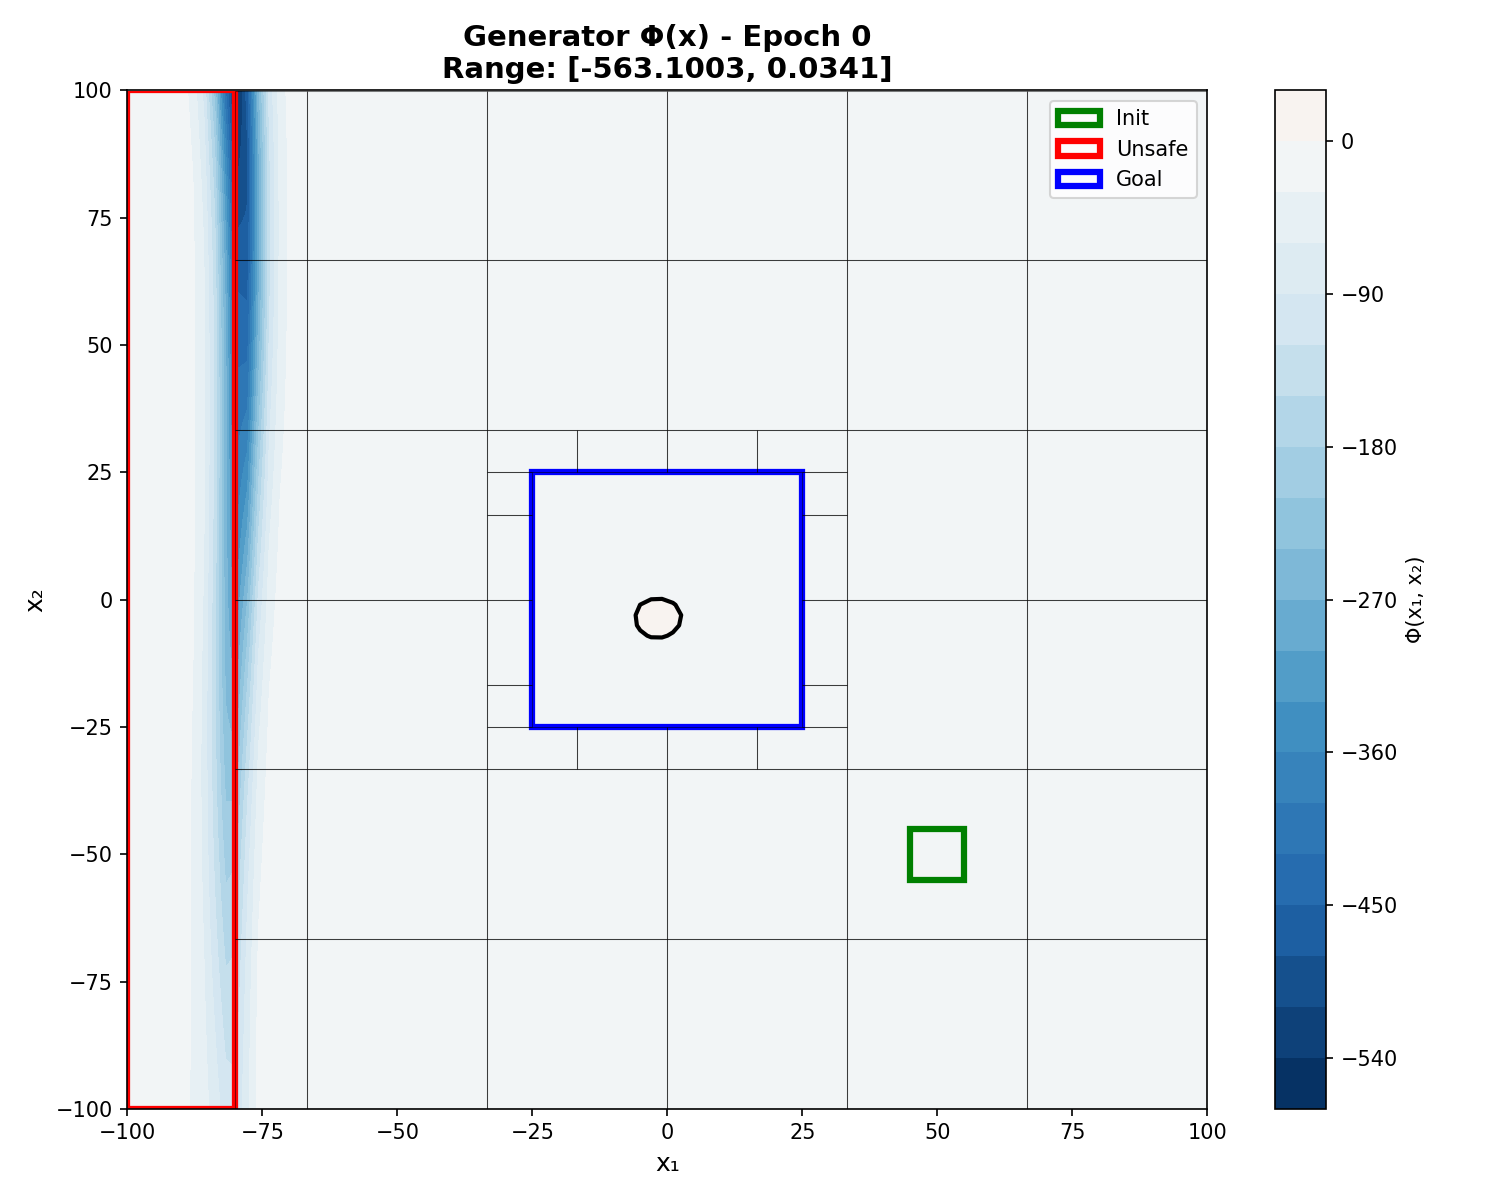
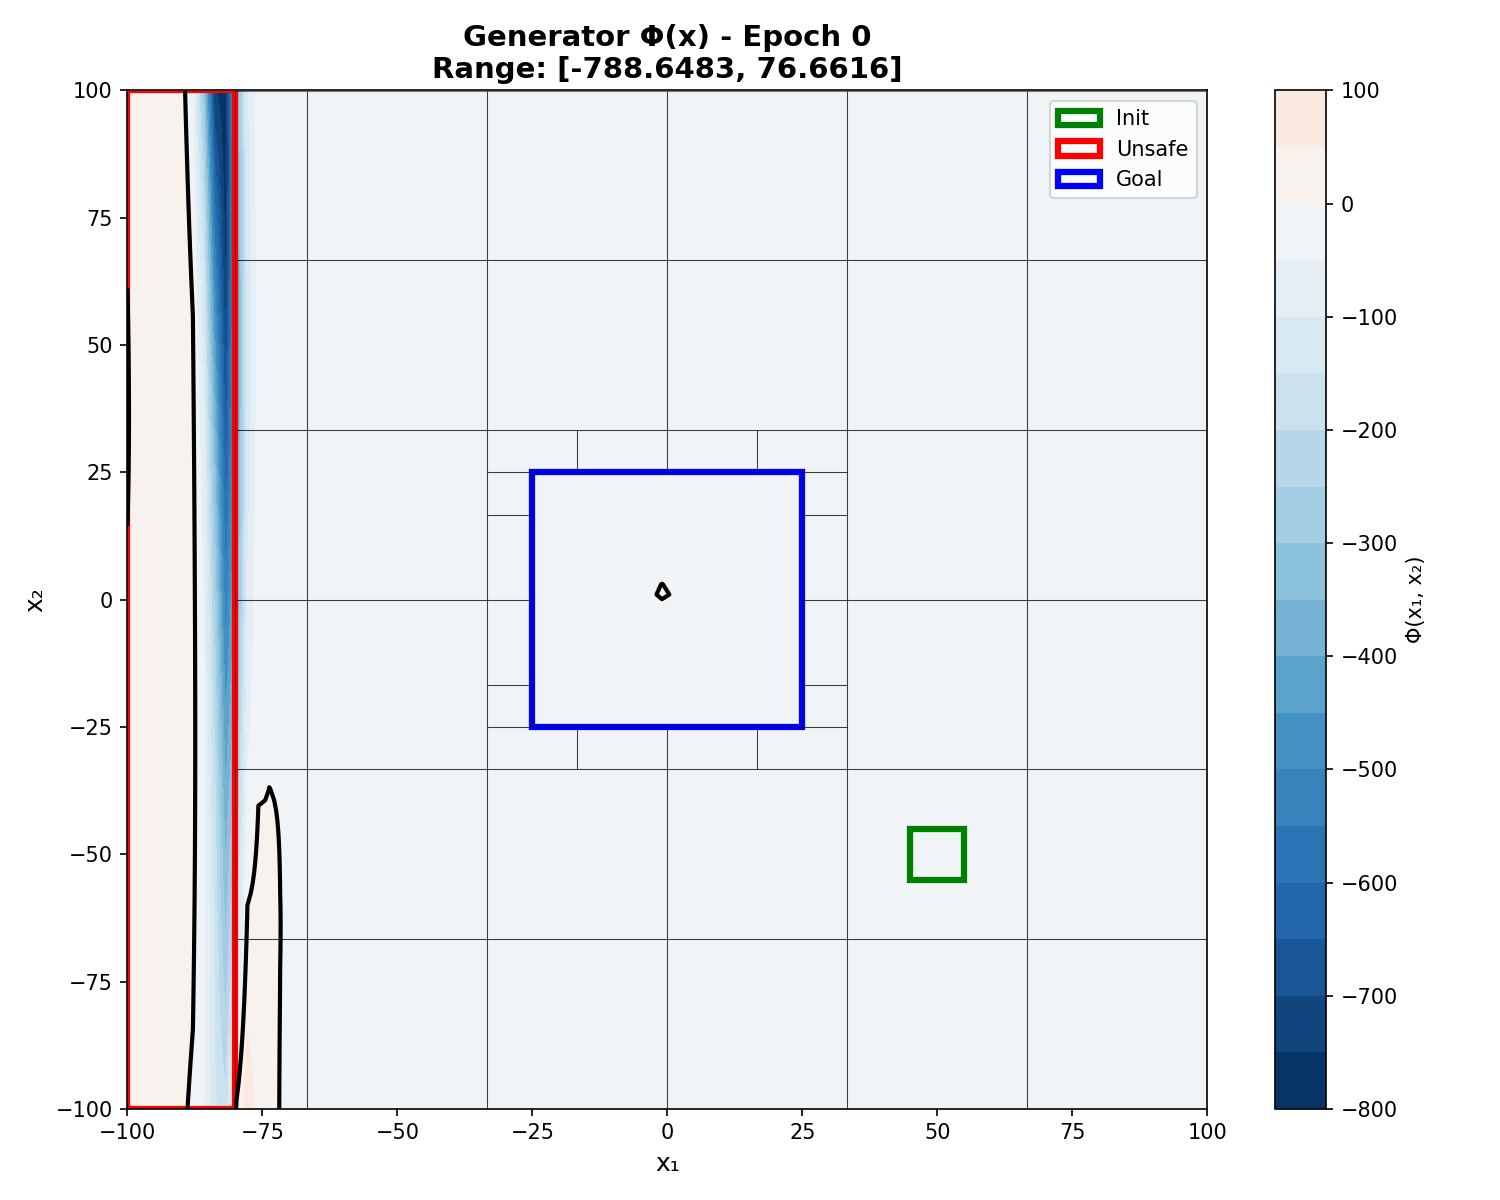
Update the plots and fix f

diff --git a/refactor/main.py b/refactor/main.py
@@ -707,6 +707,16 @@ def train_network_bounds(
                 # Rebuild generator input bounds
                 input_lowers_gen, input_uppers_gen = prepare_cell_bounds(region_cells['generator'], device)
 
+                # Update cell counts after refinement
+                for name in region_order_V:
+                    cell_counts_V[name] = len(region_cells[name])
+                
+                # Rebuild concatenated input bounds for V
+                all_cells_V = []
+                for name in region_order_V:
+                    all_cells_V.extend(region_cells[name])
+                    input_lowers_all, input_uppers_all =  prepare_cell_bounds(all_cells_V, device)
+
                 print(f"  Caches rebuilt successfully!")
 
     elapsed_time = time.time() - start_time
@@ -764,6 +774,25 @@ def main():
 
     # params.training.random_seed = 0
 
+    # ========================================================================
+    # CLEANUP: Remove old results and training progress
+    # ========================================================================
+    import shutil
+    results_dir = Path("results")
+    training_progress_dir = Path("training_progress")
+
+    if results_dir.exists():
+        shutil.rmtree(results_dir)
+        print(f"Cleaned up old results directory")
+
+    if training_progress_dir.exists():
+        shutil.rmtree(training_progress_dir)
+        print(f"Cleaned up old training_progress directory")
+
+    # Recreate directories
+    results_dir.mkdir(exist_ok=True)
+    training_progress_dir.mkdir(exist_ok=True)
+
     print(f"Network: {params.network.n_inputs} -> {params.network.n_hidden_1} -> "
           f"{params.network.n_hidden_2} -> {params.network.n_outputs}")
     print(f"Training: {params.training.num_epochs} epochs, LR={params.training.learning_rate}")
@@ -805,7 +834,7 @@ def main():
         x1 = x[:, 0]
         x2 = x[:, 1]
         f1 = -0.5 * x1 + 1.0 * x2
-        f2 = -0.0 * x1 + -0.5 * x2
+        f2 = -1.0 * x1 + -0.5 * x2
         return torch.stack([f1, f2], dim=1)
 
     def F_CL(x: torch.Tensor, u: torch.Tensor = None) -> torch.Tensor:

diff --git a/refactor/training_utils.py b/refactor/training_utils.py
@@ -111,7 +111,7 @@ def compute_loss_goal_bounds(
 
     # Shrink the sampling bounds by a factor
     # This creates a "safe buffer" where V is allowed to transition from >= beta_s to < beta_s
-    shrink_factor = 0.3 
+    shrink_factor = 0.3
     
     span_x1 = bounds[0, 1] - bounds[0, 0]
     span_x2 = bounds[1, 1] - bounds[1, 0]
